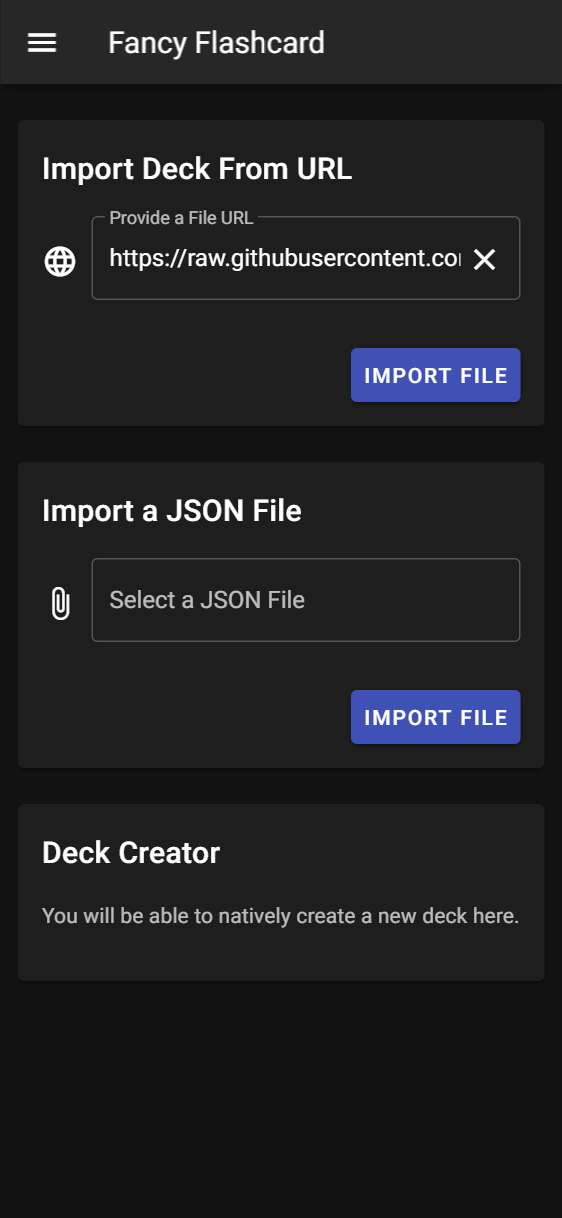
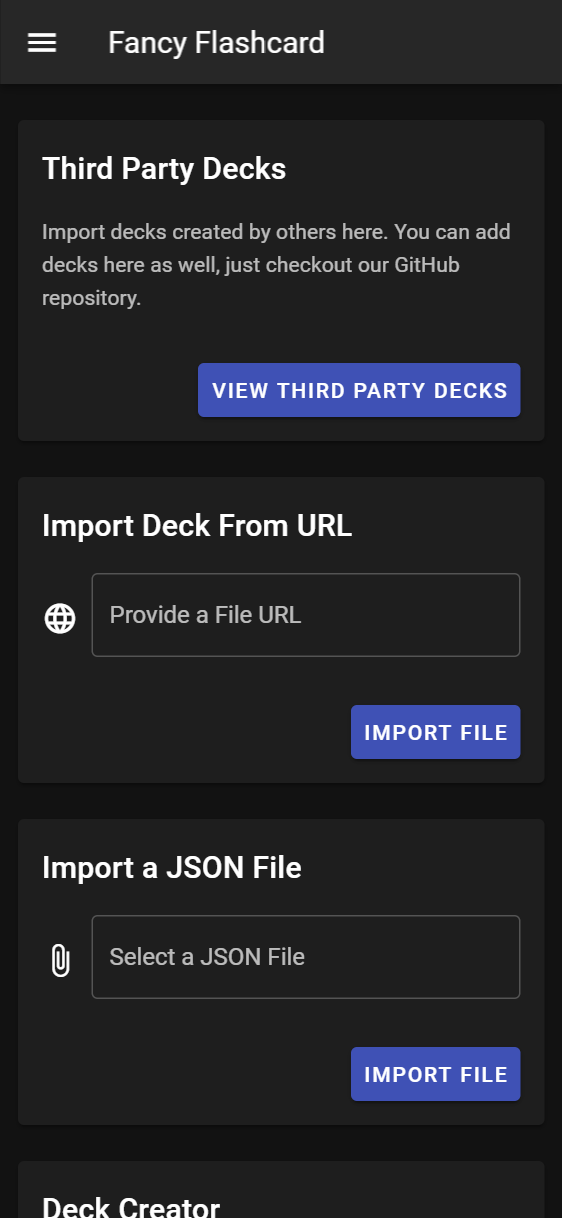
add third party deck support

diff --git a/src/components/thirdparty/ThirdPartyDeckSelection.vue b/src/components/thirdparty/ThirdPartyDeckSelection.vue
@@ -1,0 +1,106 @@
+<template>
+  <div class="ThirdPartyDeckSelection">
+    <v-subheader>Third Party Decks</v-subheader>
+    <v-list>
+      <v-list-item-group @change="onChange" v-model="deckModel">
+        <v-list-item
+          v-for="(deck, index) in thirdPartyList"
+          :key="index"
+          :value="deck.url"
+          :id="deck.url"
+        >
+          <v-list-item-content>
+            <v-list-item-title>
+              {{ deck.name }}
+              <v-icon size="1em" color="indigo">
+                {{deck.type === 'sponsored' ?
+                'mdi-cash-usd-outline' : deck.type === 'curated' ?
+                'mdi-check-decagram' : deck.type === 'official' ?
+                'mdi-flash-circle' : null}}
+              </v-icon>
+            </v-list-item-title>
+          </v-list-item-content>
+          <v-list-item-icon>
+            <v-btn icon dark @click.stop="onDownload(deck.url)">
+              <v-icon>mdi-download</v-icon>
+            </v-btn>
+          </v-list-item-icon>
+        </v-list-item>
+      </v-list-item-group>
+    </v-list>
+  </div>
+</template>
+
+<script lang="ts">
+import Vue from "vue";
+import Component from "vue-class-component";
+import thirdPartyList from "../../../third-party-decks.json";
+
+import { ThirdPartyDeck } from "../../types";
+
+@Component
+export default class ThirdPartyDeckSelection extends Vue {
+  thirdPartyList: ThirdPartyDeck[] = thirdPartyList;
+  deckModel = null;
+
+  onChange() {
+    const currentURL = this.deckModel;
+    const currentDeck = thirdPartyList.find(deck => deck.url === currentURL);
+
+    const options = {
+      title: currentDeck?.name,
+      type: currentDeck?.type,
+      multipleMessages: [
+        {
+          name: "Author",
+          value: currentDeck?.author
+        },
+        {
+          name: "Description",
+          value: currentDeck?.desc
+        },
+        {
+          name: "Type",
+          value: currentDeck?.type
+        }
+      ],
+      buttons: [
+        {
+          name: "Close",
+          color: "indigo",
+          callback: () => {
+            this.deckModel = null;
+          }
+        }
+      ]
+    };
+
+    this.$eventHub.$emit("showCustomDialog", options);
+  }
+
+  async onDownload(url: string) {
+    try {
+      const response = await fetch(url);
+      const fileContent = await response.json();
+      this.$eventHub.$emit("addDecksFromJSON", fileContent);
+    } catch (error) {
+      this.$eventHub.$emit(
+        "snackbarEvent",
+        "An error occurred while loading the third party deck"
+      );
+    }
+
+    this.deckModel = null;
+  }
+}
+</script>
+
+<style scoped>
+.v-list-item__icon {
+  margin: 8px;
+}
+.theme--dark.v-list-item--active:hover::before,
+.theme--dark.v-list-item--active::before {
+  opacity: 0;
+}
+</style>

diff --git a/src/components/customdialog/CustomDialog.vue b/src/components/customdialog/CustomDialog.vue
@@ -1,9 +1,27 @@
 <template>
   <v-dialog v-model="showDialog" max-width="400" persistent>
     <v-card color="#2e2e2e">
-      <v-card-title class="headline">{{ options.title }}</v-card-title>
+      <v-card-title class="headline">
+        {{ options.title }}
+        <v-icon v-if="options.type" size="0.9em" color="indigo" class="mx-2">
+          {{options.type === 'sponsored' ?
+          'mdi-cash-usd-outline' : options.type === 'curated' ?
+          'mdi-check-decagram' : options.type === 'official' ?
+          'mdi-flash-circle' : null}}
+        </v-icon>
+      </v-card-title>
 
       <v-card-text v-if="options.message" class="text-left">{{ options.message }}</v-card-text>
+      <v-card-text v-else-if="options.multipleMessages" class="text-left">
+        <p
+          class="multiple-messages"
+          v-for="message in options.multipleMessages"
+          :key="message.name"
+        >
+          <b>{{message.name}}:</b>
+          {{message.value}}
+        </p>
+      </v-card-text>
 
       <v-list v-if="options.table">
         <v-list-item v-if="options.tableHead">
@@ -120,5 +138,8 @@ export default class Dialog extends Vue {
 .share-ffc-url {
   text-align: center;
   margin: 0 24px;
+}
+.multiple-messages {
+  margin-bottom: 0;
 }
 </style>

diff --git a/src/components/addnewdeck/ThirdPartyDeckCard.vue b/src/components/addnewdeck/ThirdPartyDeckCard.vue
@@ -1,0 +1,40 @@
+<template>
+  <v-col cols="12" sm="12" md="6" lg="4" xl="4">
+    <v-card height="100%" raised>
+      <v-card-title>Third Party Decks</v-card-title>
+      <v-card-text>
+        Import decks created by others here.
+        You can add decks here as well, just checkout our GitHub repository.
+      </v-card-text>
+      <div class="horizontal-spacer"></div>
+      <v-card-actions class="button-padding">
+        <v-spacer></v-spacer>
+        <v-btn color="indigo" right @click="$router.push('thirdparty')">View Third Party Decks</v-btn>
+      </v-card-actions>
+    </v-card>
+  </v-col>
+</template>
+
+<script lang="ts">
+import Vue from "vue";
+import Component from "vue-class-component";
+
+@Component
+export default class ThirdPartyDecks extends Vue {}
+</script>
+
+<style scoped>
+#file-input-wrapper {
+  padding-bottom: 0;
+}
+.button-padding {
+  padding: 16px;
+}
+.v-card {
+  display: flex;
+  flex-direction: column;
+}
+.horizontal-spacer {
+  flex-grow: 1;
+}
+</style>

diff --git a/src/components/addnewdeck/AddNewDeck.vue b/src/components/addnewdeck/AddNewDeck.vue
@@ -2,6 +2,7 @@
   <div class="settings">
     <v-container fluid>
       <v-row>
+        <ThirdPartyDeckCard />
         <ImportDeckFromURL />
         <ImportDeckFromFile />
         <DeckCreator />
@@ -16,12 +17,14 @@ import Component from "vue-class-component";
 
 import ImportDeckFromURL from "./ImportDeckFromURL.vue";
 import ImportDeckFromFile from "./ImportDeckFromFile.vue";
+import ThirdPartyDeckCard from "./ThirdPartyDeckCard.vue"
 import DeckCreator from "./DeckCreator.vue";
 
 @Component({
   components: {
     ImportDeckFromURL,
     ImportDeckFromFile,
+    ThirdPartyDeckCard,
     DeckCreator
   }
 })

diff --git a/src/helpers/addDecksHelper.ts b/src/helpers/addDecksHelper.ts
@@ -69,6 +69,7 @@ function showAddedDecksConfirmation(context: Context, addedDeckAndCards: addedDe
   }
 
   const options = {
+    persistent: false,
     title: "Successfully Imported Decks",
     message: "Following decks have been added:",
     tableHead: { name: "Deck", value: "Number of Cards" },
@@ -81,6 +82,10 @@ function showAddedDecksConfirmation(context: Context, addedDeckAndCards: addedDe
     buttons: [
       {
         name: "Close",
+        color: "grey",
+      },
+      {
+        name: "Go Home",
         color: "indigo",
         callback: function() {
           context.$router.push("/");

diff --git a/src/components/addnewdeck/ImportDeckFromURL.vue b/src/components/addnewdeck/ImportDeckFromURL.vue
@@ -28,8 +28,7 @@ import Component from "vue-class-component";
 
 @Component
 export default class ImportDeckFromURL extends Vue {
-  chosenURL =
-    "https://raw.githubusercontent.com/fancy-flashcard/ffc/master/cli/test.json";
+  chosenURL = "";
   fileContent = "";
   urlRules = [
     (value: string) =>
@@ -46,7 +45,7 @@ export default class ImportDeckFromURL extends Vue {
       // TODO: cors?!
       this.$eventHub.$emit(
         "snackbarEvent",
-        "An Error Occurred While Loading The File"
+        "An error occurred while loading the file"
       );
     }
   }

diff --git a/src/views/ThirdPartyDecks.vue b/src/views/ThirdPartyDecks.vue
@@ -1,0 +1,22 @@
+<template>
+  <div class="thirdpartydecks">
+    <ThirdPartyDeckSelection />
+  </div>
+</template>
+
+<script lang="ts">
+import Vue from "vue";
+import Component from "vue-class-component";
+
+import ThirdPartyDeckSelection from "../components/thirdparty/ThirdPartyDeckSelection.vue";
+
+@Component({
+  components: {
+    ThirdPartyDeckSelection
+  }
+})
+export default class ThirdPartyDecks extends Vue {}
+</script>
+
+<style scoped>
+</style>

diff --git a/src/router/index.ts b/src/router/index.ts
@@ -23,6 +23,11 @@ const routes: Array<RouteConfig> = [
     props: true,
   },
   {
+    path: '/thirdparty',
+    name: 'Third Party Decks',
+    component: () => import('../views/ThirdPartyDecks.vue'),
+  },
+  {
     path: '/settings',
     name: 'Settings',
     component: () => import('../views/Settings.vue'),

diff --git a/src/types/index.ts b/src/types/index.ts
@@ -119,3 +119,11 @@ export interface NavBarConfigItem {
   icon: string;
   title: string;
 }
+
+export interface ThirdPartyDeck {
+  type: string;
+  name: string;
+  author: string;
+  desc: string;
+  url: string;
+}

diff --git a/README.md b/README.md
@@ -40,7 +40,7 @@
 
 ## Screenshots
 
-<img src="docs/img/deck-selection.png" alt="Deck Selection" width="30%" /> <img src="docs/img/deck-selection-selected.png" alt="Deck Selection - one deck selected" width="30%" /> <img src="docs/img/q-and-a.png" alt="Card" width="30%" /> <img src="docs/img/finish.png" alt="Evaluation after finishing learning" width="30%" /> <img src="docs/img/menu.png" alt="Menu" width="30%" /> <img src="docs/img/import.png" alt="Import" width="30%" />
+<img src="docs/img/deck-selection.png" alt="Deck Selection" width="24%" /> <img src="docs/img/deck-selection-selected.png" alt="Deck Selection - one deck selected" width="24%" /> <img src="docs/img/q-and-a.png" alt="Card" width="24%" /> <img src="docs/img/finish.png" alt="Evaluation after finishing learning" width="24%" /> <img src="docs/img/menu.png" alt="Menu" width="24%" /> <img src="docs/img/import.png" alt="Import" width="24%" /> <img src="docs/img/third-party-decks.png" alt="Third Party Decks" width="24%" /> <img src="docs/img/add-decks.png" alt="Successfully add a Deck" width="24%" /> 
 
 ## Deployment
 The app is build and deployed to https://fancy-flashcard.github.io/ffc on every push to master branch (via GitHub Actions and GitHub Pages).
